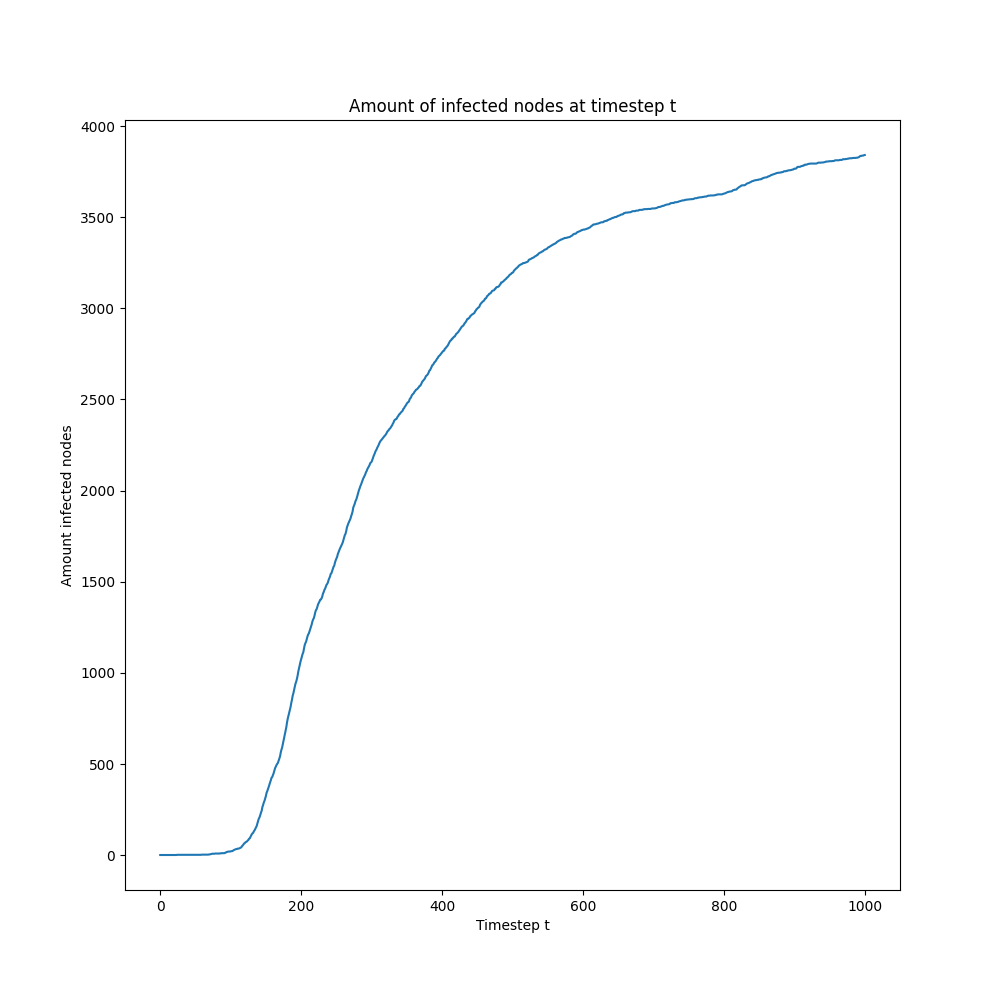
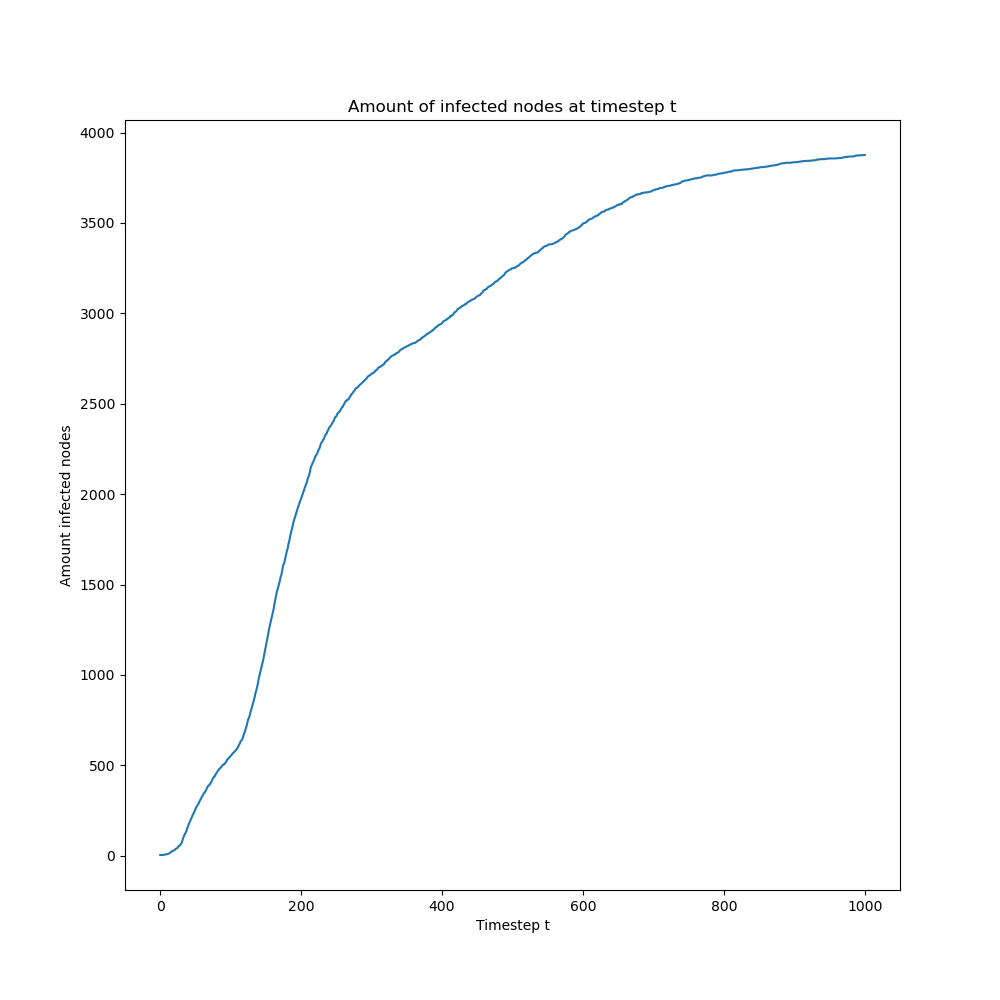
Added params to socialgraph init

diff --git a/SocialGraph.py b/SocialGraph.py
@@ -15,13 +15,13 @@ class SocialGraph:
     """
         Class to represent a social network
     """
-    i = 0.001
-    i_init = 0.0001
-    time_steps = 1000
 
-    def __init__(self, edgelist):
+    def __init__(self, edgelist, i, i_init, time_steps):
         self.G = nx.read_edgelist(edgelist, delimiter=' ')
         nodes = self.G.nodes()
+        self.i = i
+        self.i_init = i_init
+        self.time_steps = time_steps
 
         # initialize node states
         states = np.zeros(len(nodes))
@@ -100,19 +100,3 @@ class SocialGraph:
         self.inf_degree_avg.append(np.mean(inf_degree))
 
         return self.inf_count
-
-
-def main():
-    FbGraph = SocialGraph('facebook_combined.txt')
-
-    # FbGraph.draw_graph("Before", True)
-
-    for i in range(FbGraph.time_steps):
-        print(f"Timestep {i}, infected nodes: {FbGraph.make_timestep()}")
-
-    # FbGraph.draw_graph("After", True)
-    FbGraph.show_infected_plot()
-
-
-if __name__ == "__main__":
-    main()
